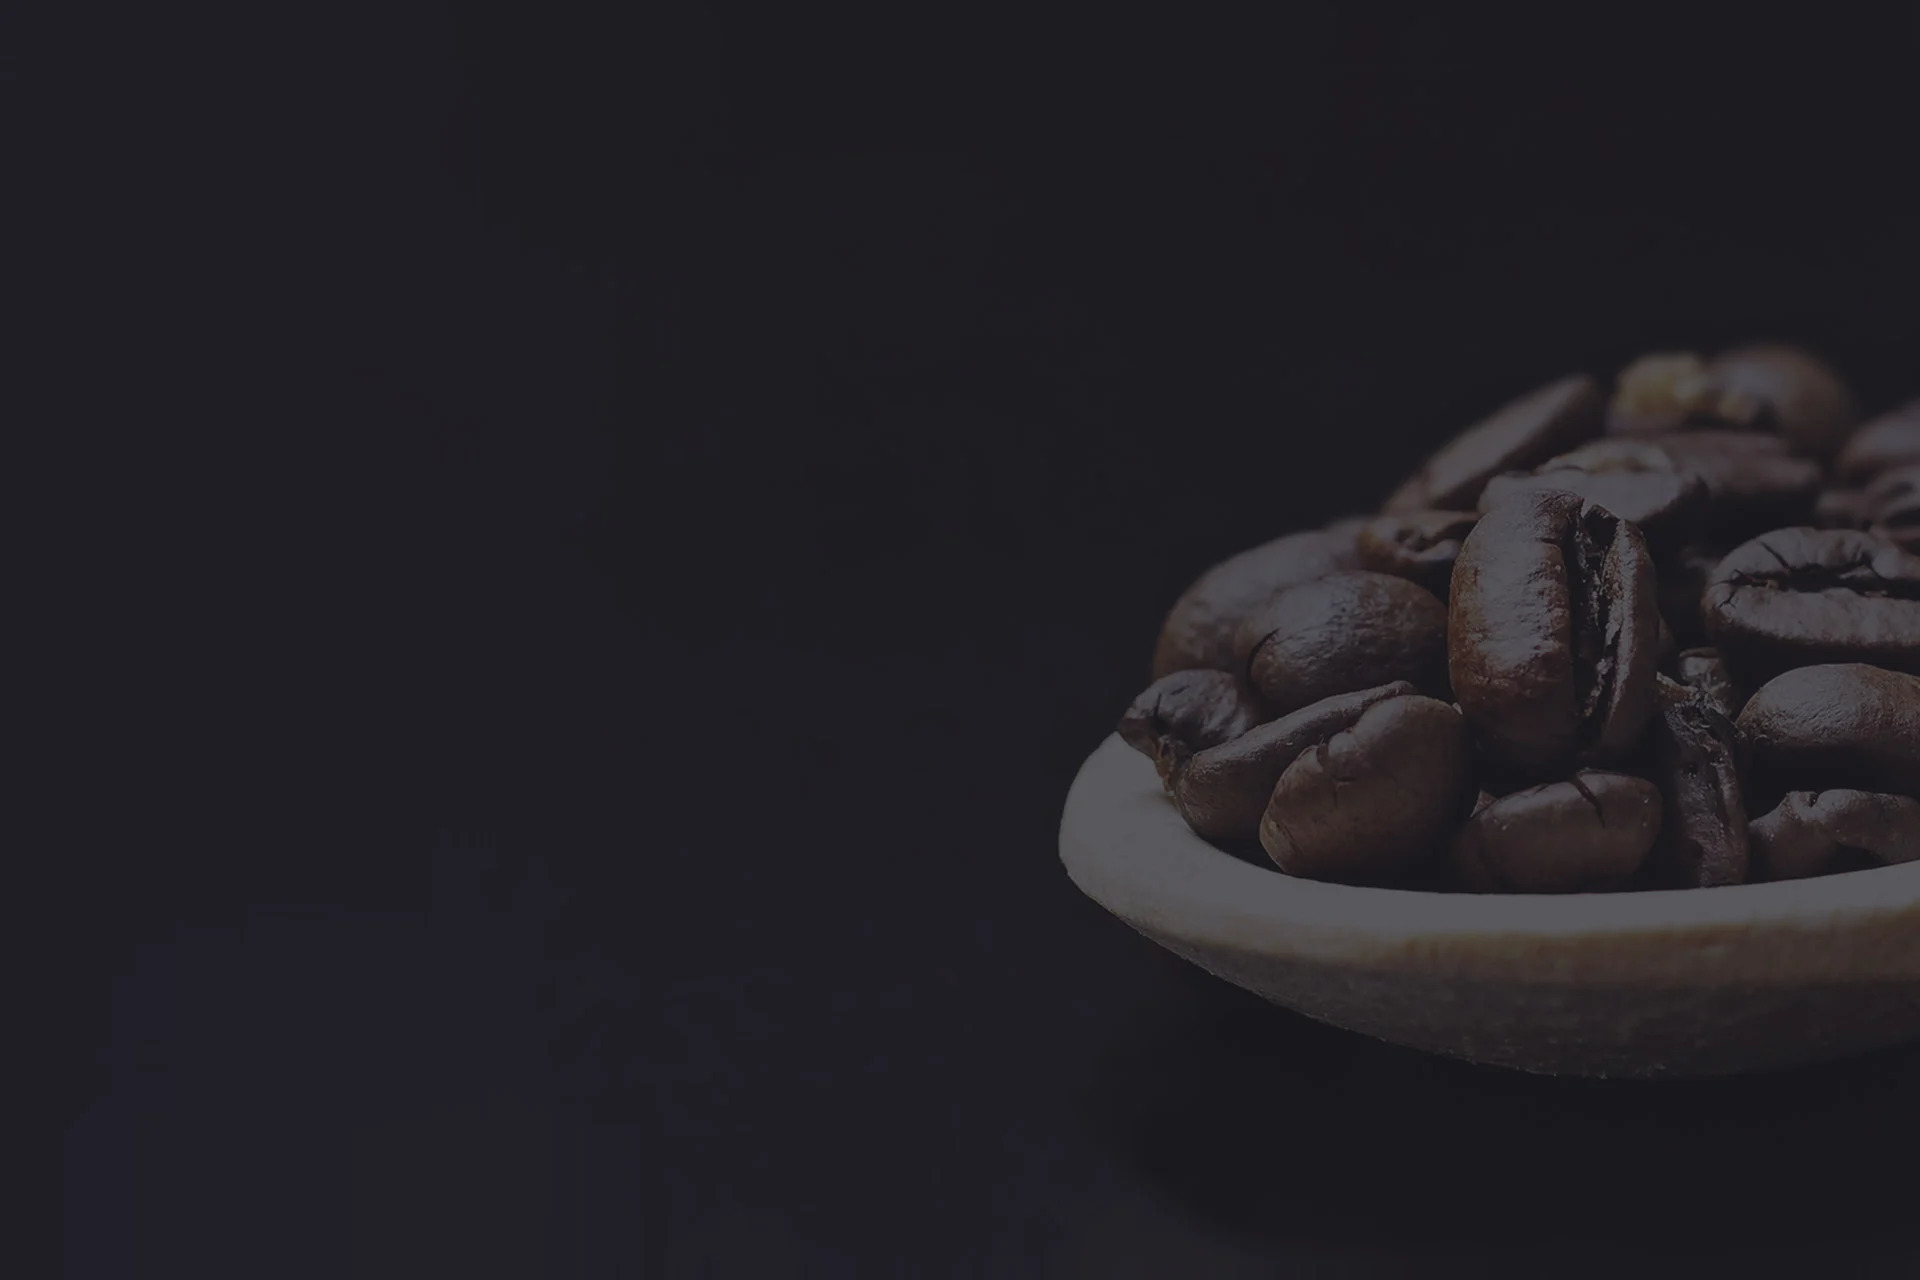
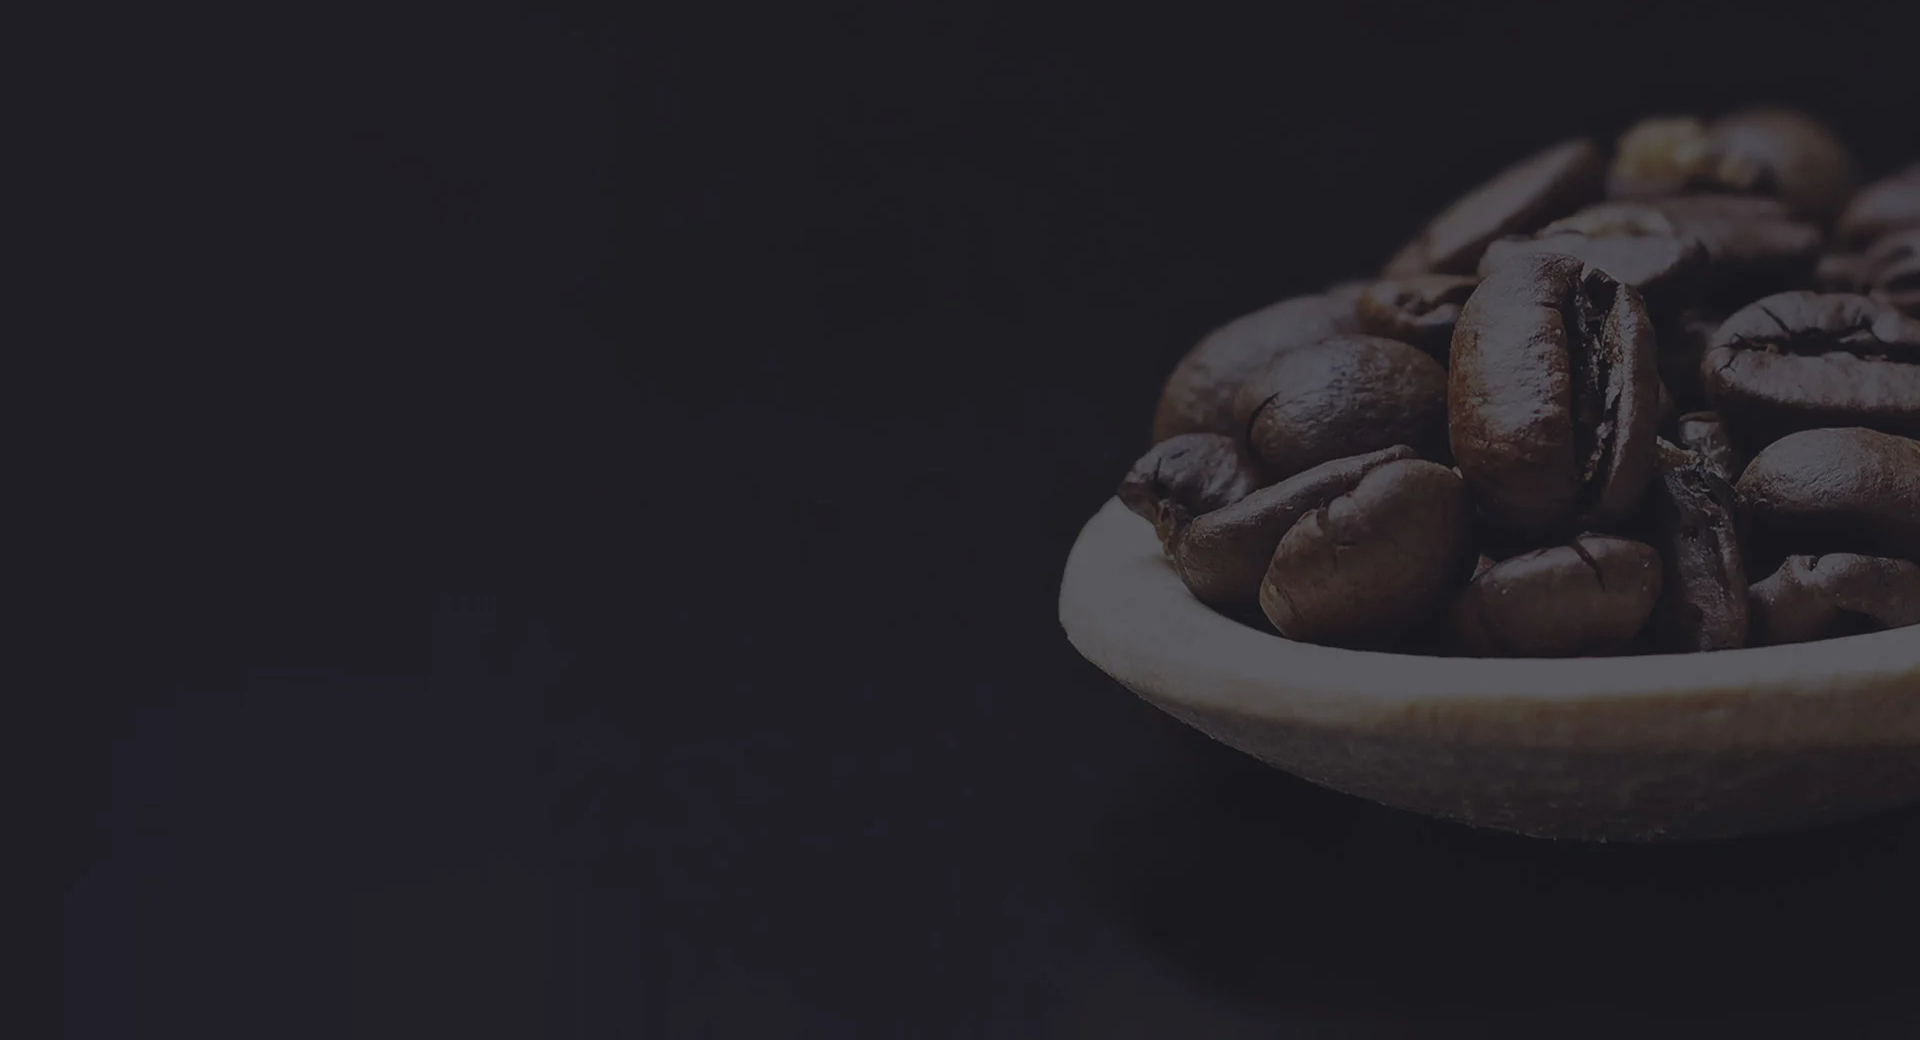
image-added, and js-fixing

Changed region(s): [[0.5312, 0.0923, 1.0, 0.8]]

diff --git a/index.html b/index.html
@@ -280,40 +280,56 @@
       </div>
     </section>
   </div>
-  <div class="Croissants_wrap">
+  <div class="Croissants_wrap position-relative">
     <div class="Croissants" id="parallaxTwo">
       <div>
         <img src="./image/cafe_overlay2.png" alt="cafe_overlay2.png">
+        <div class="overlay-content position-absolute">
+          <h1>
+            The Best <br>
+            <span style="color:#e6b08d;">Croissants</span> <br>
+            in Town
+          </h1>
+          <p>
+            Fresh from the oven twice a day. <br>
+            Come and try it yourself.
+          </p>
+        </div>
       </div>
-
       <div>
         <img src="./image/coffee_bottomcurve.png" alt="coffee_bottomcurve.png">
       </div>
-      <div class="Croissants_contant">
-        <h1>
-          Our
-          <span style="color:#e6b08d;">Baristas</span>
-          <br>
-          are waiting
-          <br>
-          for your Visit
-        </h1>
-      </div>
+    </div>
+    <div class="Croissants_contant">
+      <h1>
+        Our
+        <span style="color:#e6b08d;">Baristas</span>
+        <br>
+        are waiting
+        <br>
+        for your Visit
+      </h1>
+      <p>
+        Sit down and relax while enjoying one of our <br>
+        famous coffee specialities.
+      </p>
     </div>
   </div>
 
-  <div class="riyad">
-    <h1>
-      riyad
-    </h1>
+  <div class="sum">
+    <h2>
+      riyada
+    </h2>
   </div>
-
+  <div class="sum">
+    <h2>
+      riyada
+    </h2>
+  </div>
   <script src="./script.js"></script>
   <script src="https://cdn.jsdelivr.net/npm/bootstrap@5.2.1/dist/js/bootstrap.bundle.min.js"
     integrity="sha384-u1OknCvxWvY5kfmNBILK2hRnQC3Pr17a+RTT6rIHI7NnikvbZlHgTPOOmMi466C8" crossorigin="anonymous">
     </script>
-  <!-- <script src=".\script-file\jquery.min.js"></script>
-    <script src=".\script-file\parallax.min.js"></script> -->
 </body>
 
 </html>

diff --git a/style.css b/style.css
@@ -13,7 +13,7 @@ h1{
 
 .header{
   width: 100%;
-  padding: 0px 7% 0px 10%;
+  padding: 0px 14% 0px 14%;
   z-index: 1111111111111111111111;
 }
 
@@ -306,13 +306,9 @@ h1{
   height: 100%;
 }
 
-.Croissants_wrap{
-  position: relative;
-}
-
 .Croissants{
   background-image: url(./image/cafe_bg2.jpg);
-  position: absolute;
+  /* position: absolute;
   left: 0;
   top: 0;
   width: 100%;
@@ -320,18 +316,39 @@ h1{
   background-position-x: center;
   background-size: cover;
   background-repeat: no-repeat;
-  background-origin: content-box;
+  background-origin: content-box; */
 }
 
 .Croissants_contant{
   position: absolute;
-  bottom: 30rem;
+  bottom: 24rem;
   left: 50%;
-  transform: translateX(50%);
+  transform: translateX(-7%);
 }
 
 .Croissants_contant h1{
   font-weight: 300;
   color: #fff;
-  font-size: 90px;
+  font-size: 80px;
+}
+.Croissants_contant p{
+  font-weight: 400;
+  color: #fff;
+  font-size: 23px;
+  padding-top: 35px;
+}
+.overlay-content{
+  top: 24%;
+  left: 19%;
+}
+.overlay-content h1{
+  font-weight: 300;
+  color: #fff;
+  font-size: 80px;
+}
+.overlay-content p{
+  font-weight: 400;
+  color: #fff;
+  font-size: 23px;
+  padding-top: 35px;
 }

diff --git a/script.js b/script.js
@@ -1,12 +1,22 @@
 // parallax............
 
-const parallax = document.getElementById
-  ("parallax");
+// const parallax = document.getElementById
+//   ("parallax");
+
+// window.addEventListener("scroll", function () {
+//   let offset = window.pageYOffset;
+//   parallax.style.backgroundPositionY = (offset)
+//     * -.7 + "px"
+// })
 
 window.addEventListener("scroll", function () {
   let offset = window.pageYOffset;
-  parallax.style.backgroundPositionY = (offset)
-    * -.7 + "px"
+  let parallaxDiv = document.getElementById('parallax');
+  var distanceToTop = parallaxDiv.getBoundingClientRect().top;
+
+
+  parallax.style.backgroundPositionY = (distanceToTop)* .4 +"px";
+  console.log(distanceToTop)
 })
 
 // Animation............
@@ -50,8 +60,6 @@ window.addEventListener("scroll", function () {
   var distanceToTop = parallaxDiv.getBoundingClientRect().top;
 
 
-  parallaxTwo.style.backgroundPositionY = (distanceToTop)*.5+"px";
+  parallaxTwo.style.backgroundPositionY = (distanceToTop)*.4+"px";
   console.log(distanceToTop)
 })
-
-// document.getElementById("parallax2").style.transform = "translate(0, 200px)";
